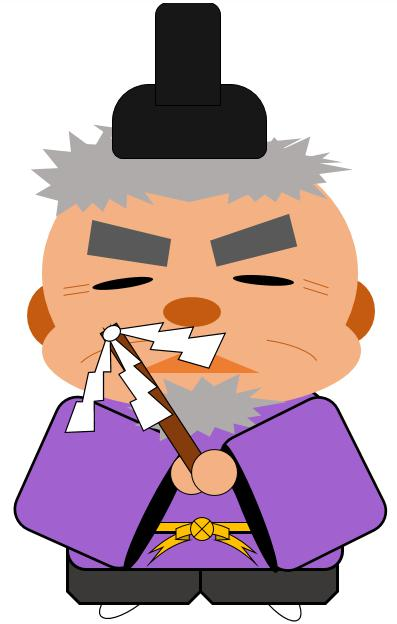
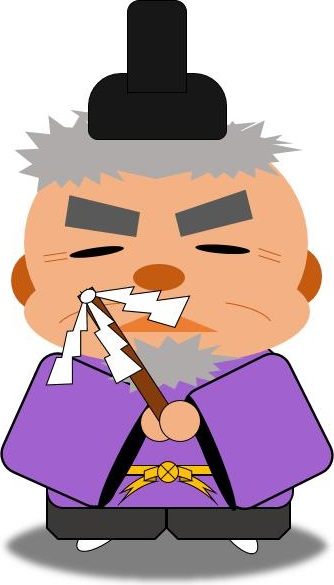
おみくじ　運勢によって神主画像切り替え、ロジック変更

diff --git a/omikuji/omikuji.js b/omikuji/omikuji.js
@@ -1,5 +1,15 @@
 var omikuji = ["大吉","中吉","小吉","末吉","凶","大凶"];
 
+//神主の画像
+var img = [ "../images/kannushi_daikichi.jpg",
+				"../images/kannushi_chukichi.jpg",
+				"../images/kannushi_shokichi.jpg",
+				"../images/kannushi_suekichi.jpg",
+				"../images/kannushi_kyou.jpg",
+				"../images/kannushi_daikyou.jpg",
+				"../images/kannushi.jpg"
+			  ];
+
 //願い事
 var hope = [
 	["すごく叶う", "とても叶う"], //良い結果
@@ -38,12 +48,12 @@ function getOmikuji(){
 	
 	$('body').css('background-image', 'url(../images/omikujiResult.jpg)');
 	
-	//各運勢の重みを算出
-	hopeScore = Math.floor(Math.random() * hope.length);
-	loveScore = Math.floor(Math.random() * love.length);
-	studyScore = Math.floor(Math.random() * study.length);
+	//各運勢の良し悪しを決める
+	hopeScore = getScore();//Math.floor(Math.random() * hope.length);
+	loveScore = getScore();//Math.floor(Math.random() * love.length);
+	studyScore = getScore();//Math.floor(Math.random() * study.length);
 	
-	//重みの中から回答文を算出
+	//結果の良し悪しから回答文を決める
 	hopeResult = Math.floor(Math.random() * hope[hopeScore].length);
 	loveResult = Math.floor(Math.random() * love[loveScore].length);
 	studyResult = Math.floor(Math.random() * study[studyScore].length);
@@ -56,38 +66,60 @@ function getOmikuji(){
 			$('#omikujiResult').text(omikuji[0]);
 			console.log(omikuji[0]);
 			showResult();
+			$('#imgKannushi').attr('src',img[0]);
 			break;
 		case 1:
 			$('#omikujiResult').text(omikuji[1]);
 			console.log(omikuji[1]);
 			showResult();
+			$('#imgKannushi').attr('src',img[1]);
 			break;
 		case 2:
 			$('#omikujiResult').text(omikuji[2]);
 			console.log(omikuji[2]);
 			showResult();
+			$('#imgKannushi').attr('src',img[2]);
 			break;
 		case 3:
 			$('#omikujiResult').text(omikuji[2]);
 			console.log(omikuji[2]);
 			showResult();
+			$('#imgKannushi').attr('src',img[2]);
 			break;
 		case 4:
 			$('#omikujiResult').text(omikuji[3]);
 			console.log(omikuji[3]);
 			showResult();
+			$('#imgKannushi').attr('src',img[3]);
 			break;
 		case 5:
 			$('#omikujiResult').text(omikuji[4]);
 			console.log(omikuji[4]);
 			showResult();
+			$('#imgKannushi').attr('src',img[4]);
 			break;
 		case 6:
 			$('#omikujiResult').text(omikuji[5]);
 			console.log(omikuji[5]);
 			showResult();
+			$('#imgKannushi').attr('src',img[5]);
 			break;
 	}
+}
+
+//各運勢の結果の良し悪しを返す
+function getScore(){
+	var score;
+	//乱数から 0,1は0（良）、 2,3,4は1（普通） 5は2（悪い）を返す
+	var num = Math.floor(Math.random() * 10);
+	if(num <=  4) 
+		score = 0;
+	else if(num <= 7)
+		score = 1;
+	else if(num <= 9)
+		score = 2;
+	
+	return score;
 }
 
 //各運勢の結果表示
@@ -114,3 +146,11 @@ function start(){
 }
 
 
+var i = 0;
+function changeKannushi(){
+	
+	
+	$('#imgKannushi').attr('src',img[i]);
+	if(i < 6) i++;
+	else i=0;
+}

diff --git a/omikuji/omikuji.html b/omikuji/omikuji.html
@@ -24,13 +24,14 @@
       <div class="container">
          <div class="row">
             <div class="col-md-2"></div>
+            <image id="imgKannushi" src="../images/kannushi.jpg" onclick="changeKannushi()"> 
             <image id="imgUnsei" src="../images/unsei.jpg">
+            
+            
             <div class="col-md-8 text-center">
-               
-               
-                <!--おみくじ画像　クリックで判定-->
+
+               <!--おみくじ画像　クリックで判定-->
                <image id="imgOmikuji" src="../images/omikuji.jpg" onclick="start()">
-               <image id="imgKannushi" src="../images/kannushi.jpg">
 
                <!-- 結果 -->
                <div id="results">

diff --git a/omikuji/omikuji.css b/omikuji/omikuji.css
@@ -1,8 +1,14 @@
 body{
-	font-family: "‚l‚r –¾’©","MS Mincho";
+	font-family: "ヒラギノ明朝 ProN W6",
+   				 "HiraMinProN-W6",
+   				 "HG明朝E",
+   				 "ＭＳ Ｐ明朝",
+   				 "MS PMincho",
+   				 "MS 明朝",
+   				 serif;
 	background-repeat: no-repeat;
 	background-size:700px 300px;
-	background-position: center 110%;
+	background-position: center 113%;
 }
 
 #results{
@@ -26,19 +32,22 @@ body{
 }
 
 #imgKannushi{
-	width:150px;
+	height:300px;
 	margin-bottom:20px;
+	position: absolute;
+	left:100px;
 }
 
 #imgUnsei{
 	width:250px;
 	margin-bottom:20px;
 	position: absolute;
-	left:10px;
+	right:10px;
 }
 
 #imgOmikuji{
 	width:100px;
+	margin-bottom:100px;
 	cursor:pointer;
 }
 
